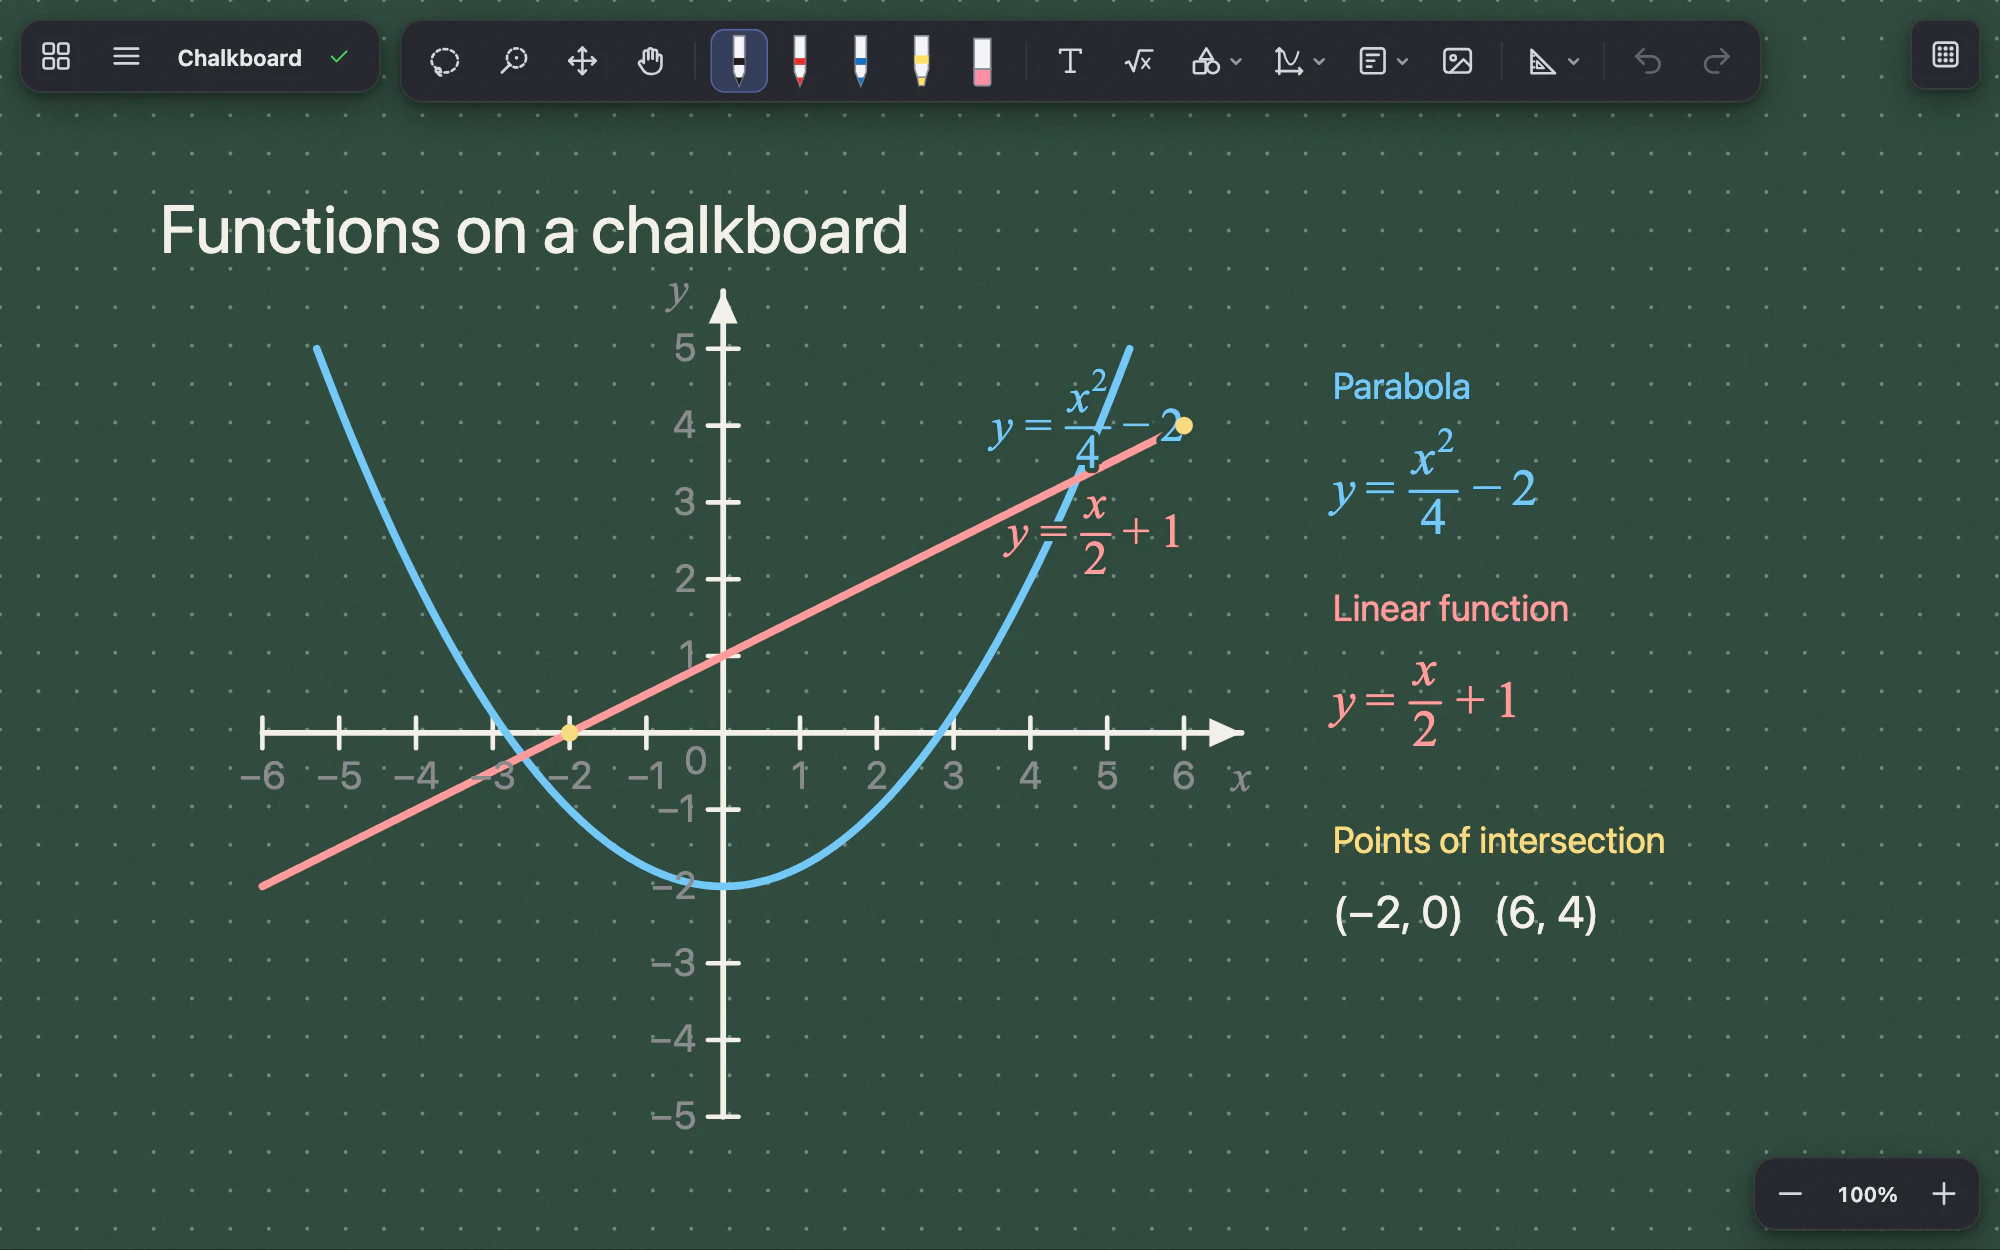
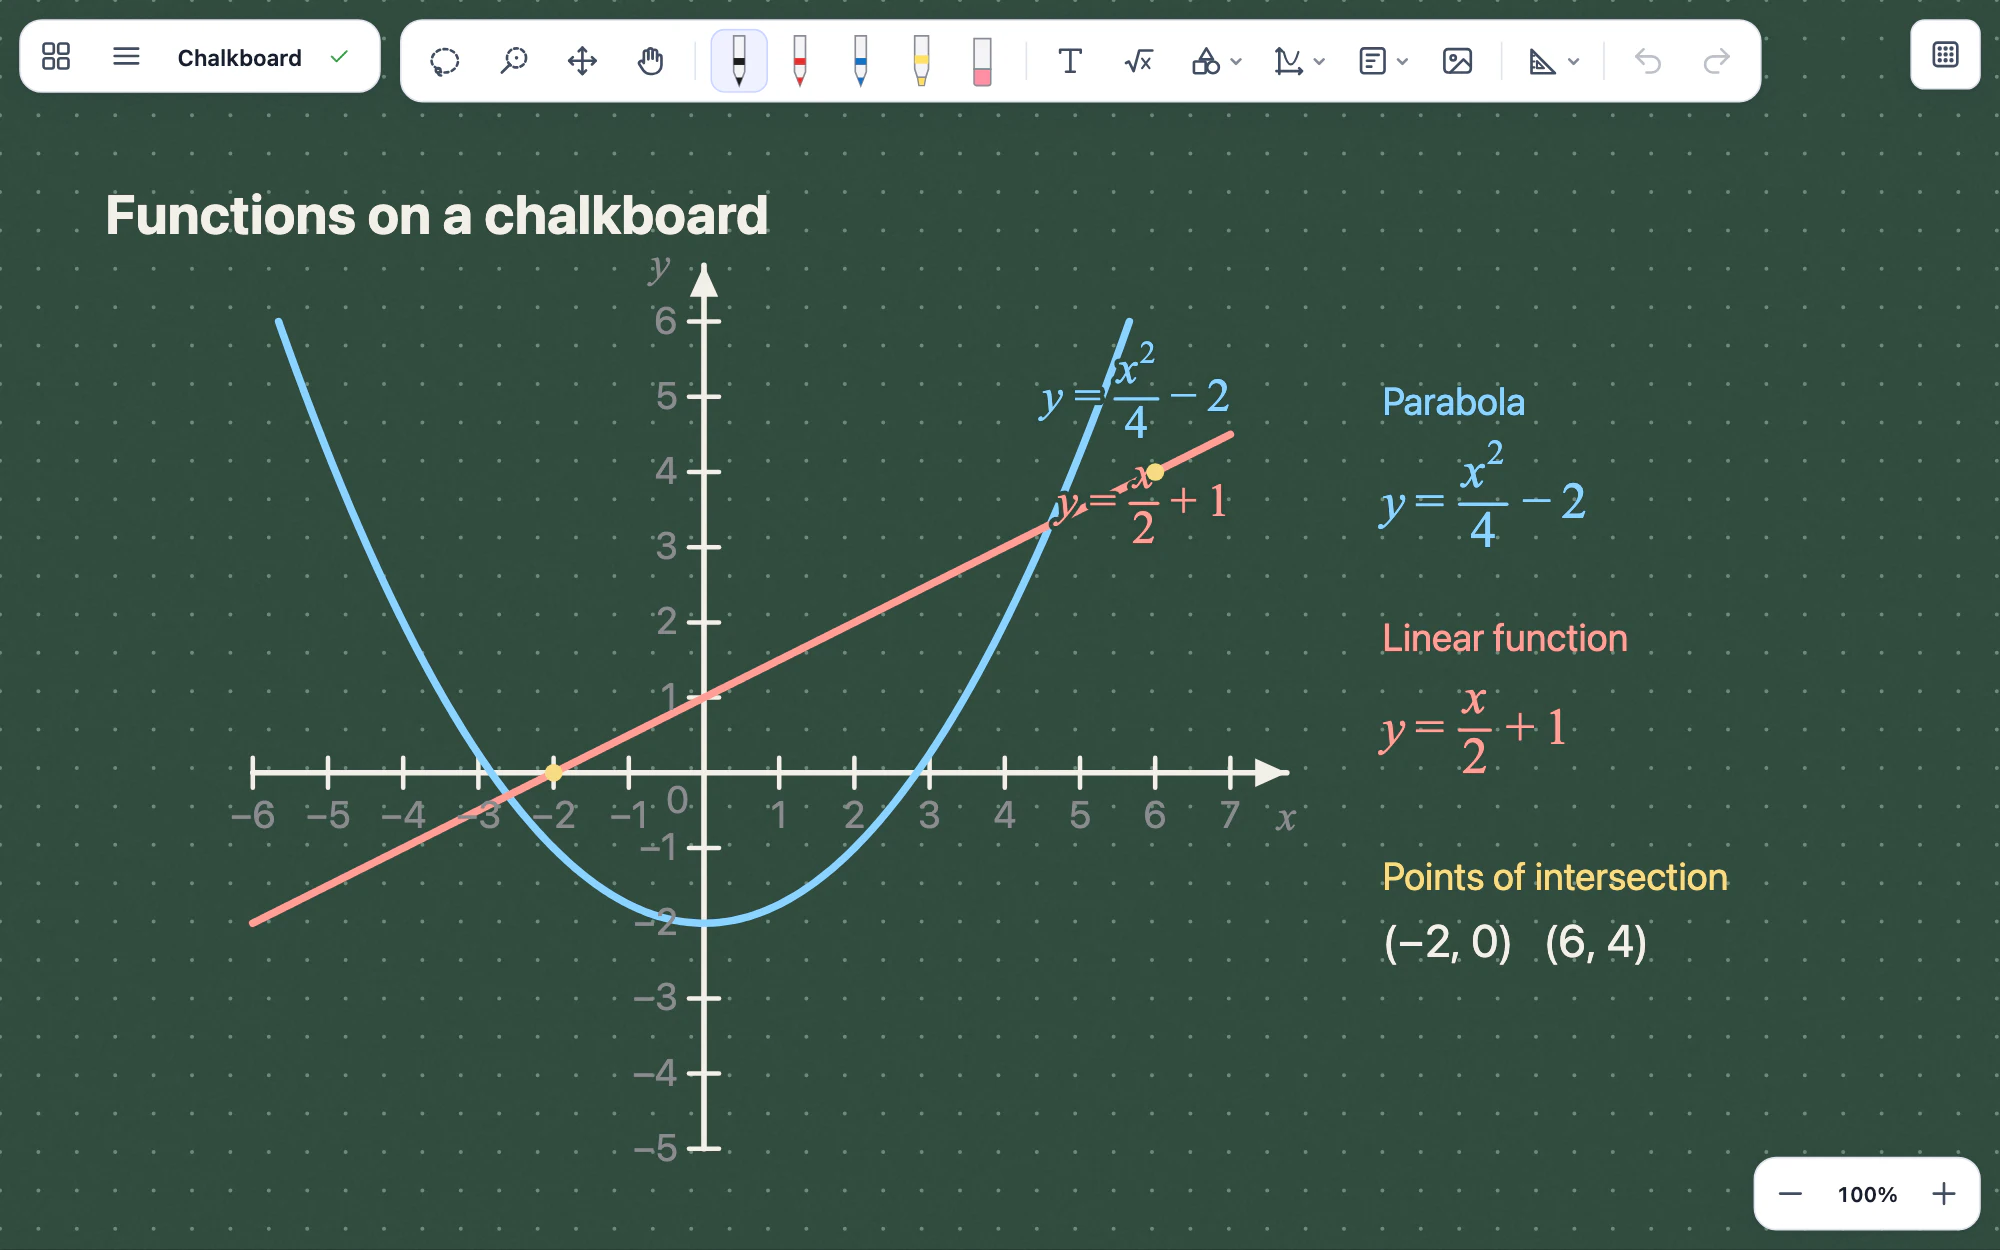
Refresh interface and add experimental dark theme and chalkboard

diff --git a/index.html b/index.html
@@ -147,10 +147,11 @@
 
   .stage { margin: 64px auto 0; perspective: 1600px; max-width: 1120px; }
   .window {
-    border-radius: 16px; overflow: hidden; background: #fff; border: 1px solid var(--frame);
+    border-radius: 16px; overflow: hidden; background: var(--card); border: 1px solid var(--frame);
     box-shadow: 0 40px 80px -30px rgba(20, 24, 40, .35), 0 0 0 6px color-mix(in srgb, var(--card) 70%, transparent);
     transform-origin: 50% 0; transform: rotateX(var(--tilt, 14deg)) scale(var(--sc, .94)); will-change: transform;
   }
+  .window picture { display: block; }
   .window img { display: block; width: 100%; height: auto; }
 
   /* examples: on wide screens the page scroll walks through them (sticky stage) */
@@ -395,8 +396,14 @@
       </div>
       <div class="stage">
         <div class="window" id="window">
-          <img data-only="uk" src="img/hero-uk.webp" width="2000" height="1250" alt="Inkboard: дошка «Геометрія» з транспортиром, шестикутною пірамідою і колом, накресленим циркулем на координатній площині">
-          <img data-only="en" src="img/hero-en.webp" width="2000" height="1250" loading="lazy" alt="Inkboard: the board “Geometry” with a protractor, a hexagonal pyramid and a circle drawn with the compass on a coordinate plane">
+          <picture data-only="uk">
+            <source media="(prefers-color-scheme: dark)" srcset="img/hero-dark-uk.webp">
+            <img src="img/hero-uk.webp" width="2000" height="1250" alt="Inkboard: дошка «Геометрія» з транспортиром, шестикутною пірамідою і колом, накресленим циркулем на координатній площині">
+          </picture>
+          <picture data-only="en">
+            <source media="(prefers-color-scheme: dark)" srcset="img/hero-dark-en.webp">
+            <img src="img/hero-en.webp" width="2000" height="1250" loading="lazy" alt="Inkboard: the board “Geometry” with a protractor, a hexagonal pyramid and a circle drawn with the compass on a coordinate plane">
+          </picture>
         </div>
       </div>
     </div>
@@ -426,36 +433,66 @@
       <div class="track rv d2" id="track">
         <figure class="cur">
           <div class="frame">
-            <img data-only="uk" src="img/ex-formulas-uk.webp" width="2000" height="1250" alt="Формули з клавіатури формул: парабола з обмеженням по x, функція g(x) = √(x + 4) і половина кола x² + y² = 9, обмежена по y, на одній площині; поруч 3/4 + 1/2 з відповіддю 1,25">
-            <img data-only="en" src="img/ex-formulas-en.webp" width="2000" height="1250" alt="Formulas from the math keypad: a parabola limited in x, the function g(x) = √(x + 4) and half of the circle x² + y² = 9, limited in y, on one plane; beside them 3/4 + 1/2 with the answer 1.25">
+            <picture data-only="uk">
+              <source media="(prefers-color-scheme: dark)" srcset="img/ex-formulas-dark-uk.webp">
+              <img src="img/ex-formulas-uk.webp" width="2000" height="1250" alt="Формули з клавіатури формул: парабола з обмеженням по x, функція g(x) = √(x + 4) і половина кола x² + y² = 9, обмежена по y, на одній площині; поруч 3/4 + 1/2 з відповіддю 1,25">
+            </picture>
+            <picture data-only="en">
+              <source media="(prefers-color-scheme: dark)" srcset="img/ex-formulas-dark-en.webp">
+              <img src="img/ex-formulas-en.webp" width="2000" height="1250" alt="Formulas from the math keypad: a parabola limited in x, the function g(x) = √(x + 4) and half of the circle x² + y² = 9, limited in y, on one plane; beside them 3/4 + 1/2 with the answer 1.25">
+            </picture>
           </div>
           <figcaption><h3 data-i18n="ex.h0">Формули й графіки за ними</h3><p data-i18n="ex.c0">Набирайте дроби, корені й степені на клавіатурі формул, і Inkboard порахує відповідь. Виділіть формули, і вони стануть графіками: функції, рівняння на зразок кола, з обмеженнями по x і по y.</p></figcaption>
         </figure>
         <figure>
           <div class="frame">
-            <img data-only="uk" src="img/ex-geometry-uk.webp" width="2000" height="1250" loading="lazy" alt="Побудова рівностороннього трикутника: дуги циркулем, кут 60° на транспортирі">
-            <img data-only="en" src="img/ex-geometry-en.webp" width="2000" height="1250" loading="lazy" alt="Constructing an equilateral triangle: compass arcs and a 60° angle on the protractor">
+            <picture data-only="uk">
+              <source media="(prefers-color-scheme: dark)" srcset="img/ex-geometry-dark-uk.webp">
+              <img src="img/ex-geometry-uk.webp" width="2000" height="1250" loading="lazy" alt="Побудова рівностороннього трикутника: дуги циркулем, кут 60° на транспортирі">
+            </picture>
+            <picture data-only="en">
+              <source media="(prefers-color-scheme: dark)" srcset="img/ex-geometry-dark-en.webp">
+              <img src="img/ex-geometry-en.webp" width="2000" height="1250" loading="lazy" alt="Constructing an equilateral triangle: compass arcs and a 60° angle on the protractor">
+            </picture>
           </div>
           <figcaption><h3 data-i18n="ex.h1">Транспортир і циркуль</h3><p data-i18n="ex.c1">Транспортир сам підписує градуси дуги, циркуль креслить кола й дуги потрібного радіуса. Обидва крутяться й перетягуються пером.</p></figcaption>
         </figure>
         <figure>
           <div class="frame">
-            <img data-only="uk" src="img/ex-graphs-uk.webp" width="2000" height="1250" loading="lazy" alt="Координатна площина з параболою y = x² − 2 і прямою y = x/2 + 1 та точками їх перетину">
-            <img data-only="en" src="img/ex-graphs-en.webp" width="2000" height="1250" loading="lazy" alt="A coordinate plane with the parabola y = x² − 2, the line y = x/2 + 1 and their intersection points">
+            <picture data-only="uk">
+              <source media="(prefers-color-scheme: dark)" srcset="img/ex-graphs-dark-uk.webp">
+              <img src="img/ex-graphs-uk.webp" width="2000" height="1250" loading="lazy" alt="Координатна площина з параболою y = x² − 2 і прямою y = x/2 + 1 та точками їх перетину">
+            </picture>
+            <picture data-only="en">
+              <source media="(prefers-color-scheme: dark)" srcset="img/ex-graphs-dark-en.webp">
+              <img src="img/ex-graphs-en.webp" width="2000" height="1250" loading="lazy" alt="A coordinate plane with the parabola y = x² − 2, the line y = x/2 + 1 and their intersection points">
+            </picture>
           </div>
           <figcaption><h3 data-i18n="ex.h2">Координати й графіки</h3><p data-i18n="ex.c2">Впишіть формулу, і графік з’явиться на площині разом із підписом. Є також числова пряма й осі x, y, z.</p></figcaption>
         </figure>
         <figure>
           <div class="frame">
-            <img data-only="uk" src="img/ex-solids-uk.webp" width="2000" height="1250" loading="lazy" alt="Куб, призма, піраміда, циліндр, конус, куля і шестикутна піраміда з пунктирними невидимими ребрами">
-            <img data-only="en" src="img/ex-solids-en.webp" width="2000" height="1250" loading="lazy" alt="Cube, prism, pyramid, cylinder, cone, sphere and a hexagonal pyramid with hidden edges dashed">
+            <picture data-only="uk">
+              <source media="(prefers-color-scheme: dark)" srcset="img/ex-solids-dark-uk.webp">
+              <img src="img/ex-solids-uk.webp" width="2000" height="1250" loading="lazy" alt="Куб, призма, піраміда, циліндр, конус, куля і шестикутна піраміда з пунктирними невидимими ребрами">
+            </picture>
+            <picture data-only="en">
+              <source media="(prefers-color-scheme: dark)" srcset="img/ex-solids-dark-en.webp">
+              <img src="img/ex-solids-en.webp" width="2000" height="1250" loading="lazy" alt="Cube, prism, pyramid, cylinder, cone, sphere and a hexagonal pyramid with hidden edges dashed">
+            </picture>
           </div>
           <figcaption><h3 data-i18n="ex.h3">Призми, піраміди, тіла обертання</h3><p data-i18n="ex.c3">Невидимі ребра малюються пунктиром. Кількість кутів основи можна змінити будь-коли.</p></figcaption>
         </figure>
         <figure>
           <div class="frame">
-            <img data-only="uk" src="img/ex-text-uk.webp" width="2000" height="1250" loading="lazy" alt="Задача на теорему косинусів: «Дано», «Знайти», «Розв’язання» різними кольорами, відповідь виділено маркером">
-            <img data-only="en" src="img/ex-text-en.webp" width="2000" height="1250" loading="lazy" alt="A law of cosines problem: Given, Find and Solution in different colours, the answer highlighted">
+            <picture data-only="uk">
+              <source media="(prefers-color-scheme: dark)" srcset="img/ex-text-dark-uk.webp">
+              <img src="img/ex-text-uk.webp" width="2000" height="1250" loading="lazy" alt="Задача на теорему косинусів: «Дано», «Знайти», «Розв’язання» різними кольорами, відповідь виділено маркером">
+            </picture>
+            <picture data-only="en">
+              <source media="(prefers-color-scheme: dark)" srcset="img/ex-text-dark-en.webp">
+              <img src="img/ex-text-en.webp" width="2000" height="1250" loading="lazy" alt="A law of cosines problem: Given, Find and Solution in different colours, the answer highlighted">
+            </picture>
           </div>
           <figcaption><h3 data-i18n="ex.h4">Текст із форматуванням</h3><p data-i18n="ex.c4">Друкуйте прямо на дошці. Окремі слова можна зробити жирними, курсивом, іншого кольору чи розміру.</p></figcaption>
         </figure>
@@ -463,19 +500,25 @@
           <div class="frame">
             <picture data-only="uk">
               <source media="(prefers-color-scheme: dark)" srcset="img/ex-home-dark-uk.webp">
-              <img src="img/ex-home-uk.webp" width="2000" height="1250" loading="lazy" alt="Екран «Усі дошки»: прев’ю дощок, теги предметів і тем, закріплені дошки, пошук">
+              <img src="img/ex-home-uk.webp" width="2000" height="1250" alt="Екран «Усі дошки»: прев’ю дощок, теги предметів і тем, закріплені дошки, пошук">
             </picture>
             <picture data-only="en">
               <source media="(prefers-color-scheme: dark)" srcset="img/ex-home-dark-en.webp">
-              <img src="img/ex-home-en.webp" width="2000" height="1250" loading="lazy" alt="The All boards screen: board previews, subject and topic tags, pinned boards, search">
+              <img src="img/ex-home-en.webp" width="2000" height="1250" alt="The All boards screen: board previews, subject and topic tags, pinned boards, search">
             </picture>
           </div>
           <figcaption><h3 data-i18n="ex.h5">Усі дошки</h3><p data-i18n="ex.c5">Прев’ю кожної дошки, кольорові теги для предметів і тем, пошук, закріплені дошки й кошик на 30 днів.</p></figcaption>
         </figure>
         <figure>
           <div class="frame">
-            <img data-only="uk" src="img/ex-chalkboard-uk.webp" width="2000" height="1250" loading="lazy" alt="Зелена крейдова дошка з параболою, прямою й точками їх перетину в темному інтерфейсі Inkboard">
-            <img data-only="en" src="img/ex-chalkboard-en.webp" width="2000" height="1250" loading="lazy" alt="A green chalkboard with a parabola, a line and their intersection points in Inkboard’s dark interface">
+            <picture data-only="uk">
+              <source media="(prefers-color-scheme: dark)" srcset="img/ex-chalkboard-dark-uk.webp">
+              <img src="img/ex-chalkboard-uk.webp" width="2000" height="1250" alt="Зелена крейдова дошка з параболою, прямою й точками їх перетину в Inkboard">
+            </picture>
+            <picture data-only="en">
+              <source media="(prefers-color-scheme: dark)" srcset="img/ex-chalkboard-dark-en.webp">
+              <img src="img/ex-chalkboard-en.webp" width="2000" height="1250" alt="A green chalkboard with a parabola, a line and their intersection points in Inkboard">
+            </picture>
           </div>
           <figcaption><h3 data-i18n="ex.h6">Темна тема й крейдова дошка</h3><p data-i18n="ex.c6">Темний інтерфейс і зелену крейдову поверхню можна ввімкнути окремо в експериментальних налаштуваннях.</p></figcaption>
         </figure>
